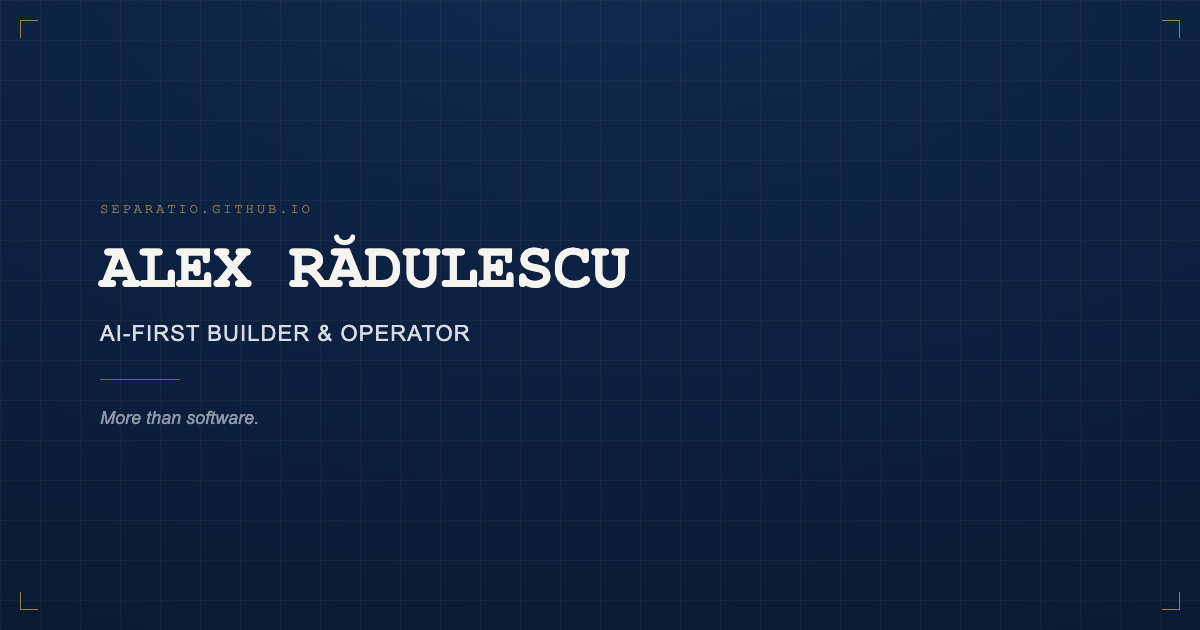
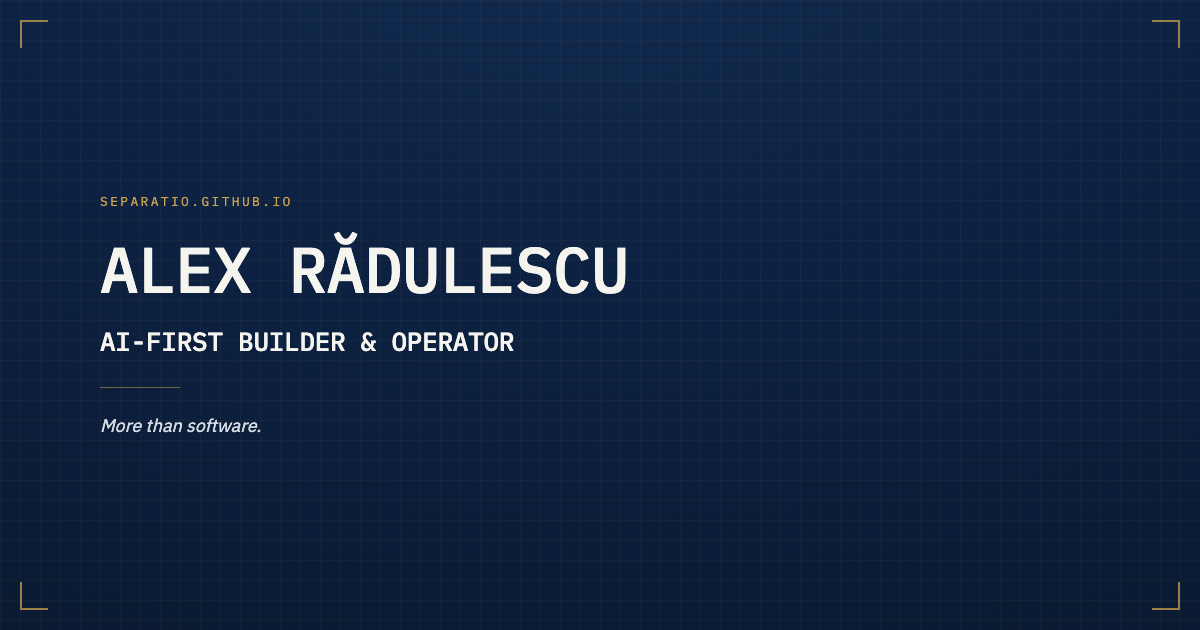
feat: give the Romanian page its own share card
og.png has the English headline and tagline baked into the pixels, and
prerender-locales rewrote og:title/og:description/og:url but not og:image.
Every Romanian share therefore unfurled with English positioning.

Adds public/og-ro.png and the two setAttr calls that point /ro at it. The
English page is untouched — dist/index.html still names og.png.

The image is rewritten in the prerender step and NOT in useDocumentHead,
matching how og:url and canonical are already handled: that hook only syncs
copy, because the tags it would fix are read by scrapers, and scrapers never
run the app.

Both cards are now generated from tools/og/og-card.html rather than being
mystery binaries — the regeneration command is in a comment at the top. The
old og.png had been rendered with fallback fonts (the name was a bold slab
serif, nothing in it was IBM Plex), so it is re-rendered here too; same copy,
correct typography, and a matched pair with the Romanian card.

tools/ is outside the Vite build — only index.html and public/ are bundled,
verified against dist/.

diff --git a/tools/og/og-card.html b/tools/og/og-card.html
@@ -1,0 +1,229 @@
+<!doctype html>
+<html lang="en">
+  <head>
+    <meta charset="UTF-8" />
+    <title>OG card template</title>
+    <!--
+      Source for public/og.png and public/og-ro.png. Not part of the Vite
+      build — nothing outside index.html and public/ is bundled.
+
+      Regenerate (from the repo root):
+
+        python3 -m http.server 8787 &
+        agent-browser set viewport 1200 630
+        agent-browser open 'http://localhost:8787/tools/og/og-card.html?l=en'
+        agent-browser screenshot public/og.png
+        agent-browser open 'http://localhost:8787/tools/og/og-card.html?l=ro'
+        agent-browser screenshot public/og-ro.png
+
+      Served over http rather than opened as file:// because Chrome gives
+      file:// pages an opaque origin and refuses to load the woff2 subsets.
+
+      Copy is duplicated from src/i18n/{en,ro}.ts rather than imported: this is
+      a plain HTML file with no build step. If a headline or tagline changes
+      there, change it here and re-render.
+    -->
+    <style>
+      /* Verbatim from src/styles/fonts.css, minus the unicode-range splits —
+         a 1200x630 canvas has no reason to lazy-load per-subset. */
+      @font-face {
+        font-family: 'IBM Plex Mono';
+        font-weight: 400;
+        src: url('/public/fonts/ibm-plex-mono-400-latin.woff2') format('woff2');
+      }
+      @font-face {
+        font-family: 'IBM Plex Mono';
+        font-weight: 400;
+        src: url('/public/fonts/ibm-plex-mono-400-latin-ext.woff2')
+          format('woff2');
+        unicode-range: U+0100-02BA, U+02BD-02C5, U+02C7-02CC;
+      }
+      @font-face {
+        font-family: 'IBM Plex Mono';
+        font-weight: 500;
+        src: url('/public/fonts/ibm-plex-mono-500-latin.woff2') format('woff2');
+      }
+      @font-face {
+        font-family: 'IBM Plex Mono';
+        font-weight: 500;
+        src: url('/public/fonts/ibm-plex-mono-500-latin-ext.woff2')
+          format('woff2');
+        unicode-range: U+0100-02BA, U+02BD-02C5, U+02C7-02CC;
+      }
+      @font-face {
+        font-family: 'IBM Plex Sans';
+        font-weight: 400;
+        src: url('/public/fonts/ibm-plex-sans-400-latin.woff2') format('woff2');
+      }
+      @font-face {
+        font-family: 'IBM Plex Sans';
+        font-weight: 400;
+        src: url('/public/fonts/ibm-plex-sans-400-latin-ext.woff2')
+          format('woff2');
+        unicode-range: U+0100-02BA, U+02BD-02C5, U+02C7-02CC;
+      }
+
+      /* Token values copied from src/styles/tokens.css. */
+      :root {
+        --gold-rgb: 201, 162, 78;
+        --gold: #c9a24e;
+        --text-primary: #f6f4ef;
+        --text-secondary: #d7dce4;
+        --font-mono: 'IBM Plex Mono', monospace;
+        --font-sans: 'IBM Plex Sans', sans-serif;
+      }
+
+      html,
+      body {
+        margin: 0;
+        padding: 0;
+      }
+
+      .card {
+        position: relative;
+        width: 1200px;
+        height: 630px;
+        overflow: hidden;
+        display: flex;
+        flex-direction: column;
+        justify-content: center;
+        padding: 0 100px;
+        box-sizing: border-box;
+        background:
+          repeating-linear-gradient(
+            to right,
+            rgba(var(--gold-rgb), 0.05) 0 1px,
+            transparent 1px 20px
+          ),
+          repeating-linear-gradient(
+            to bottom,
+            rgba(var(--gold-rgb), 0.05) 0 1px,
+            transparent 1px 20px
+          ),
+          radial-gradient(
+            125% 120% at 50% -10%,
+            #102a4e 0%,
+            #0c2040 55%,
+            #0a1a32 100%
+          );
+      }
+
+      /* Registration marks — the same L-brackets the live page draws. */
+      .corner {
+        position: absolute;
+        width: 26px;
+        height: 26px;
+        border: 0 solid rgba(var(--gold-rgb), 0.75);
+      }
+      .tl {
+        top: 20px;
+        left: 20px;
+        border-top-width: 2px;
+        border-left-width: 2px;
+      }
+      .tr {
+        top: 20px;
+        right: 20px;
+        border-top-width: 2px;
+        border-right-width: 2px;
+      }
+      .bl {
+        bottom: 20px;
+        left: 20px;
+        border-bottom-width: 2px;
+        border-left-width: 2px;
+      }
+      .br {
+        bottom: 20px;
+        right: 20px;
+        border-bottom-width: 2px;
+        border-right-width: 2px;
+      }
+
+      .eyebrow {
+        font-family: var(--font-mono);
+        font-weight: 400;
+        font-size: 13px;
+        letter-spacing: 0.18em;
+        text-transform: uppercase;
+        color: var(--gold);
+      }
+
+      .name {
+        margin-top: 26px;
+        font-family: var(--font-mono);
+        font-weight: 500;
+        font-size: 64px;
+        line-height: 1.05;
+        letter-spacing: -0.01em;
+        text-transform: uppercase;
+        color: var(--text-primary);
+      }
+
+      .role {
+        margin-top: 22px;
+        font-family: var(--font-mono);
+        font-weight: 500;
+        font-size: 26px;
+        line-height: 1.25;
+        letter-spacing: -0.01em;
+        color: var(--text-primary);
+      }
+
+      .rule {
+        margin-top: 30px;
+        width: 80px;
+        height: 1px;
+        background: var(--gold);
+        opacity: 0.55;
+      }
+
+      .tagline {
+        margin-top: 26px;
+        font-family: var(--font-sans);
+        font-size: 18px;
+        font-style: italic;
+        color: var(--text-secondary);
+      }
+    </style>
+  </head>
+  <body>
+    <div class="card">
+      <span class="corner tl"></span>
+      <span class="corner tr"></span>
+      <span class="corner bl"></span>
+      <span class="corner br"></span>
+
+      <div class="eyebrow" id="eyebrow"></div>
+      <div class="name">Alex Rădulescu</div>
+      <div class="role" id="role"></div>
+      <div class="rule"></div>
+      <div class="tagline" id="tagline"></div>
+    </div>
+
+    <script>
+      // ?l=ro renders the Romanian card; anything else renders English.
+      const COPY = {
+        en: {
+          eyebrow: 'separatio.github.io',
+          role: 'AI-FIRST BUILDER & OPERATOR',
+          tagline: 'More than software.',
+        },
+        ro: {
+          eyebrow: 'separatio.github.io/ro',
+          role: 'INGINER DE AUTOMATIZĂRI',
+          tagline: 'Mai mult decât software.',
+        },
+      }
+
+      const lang =
+        new URLSearchParams(location.search).get('l') === 'ro' ? 'ro' : 'en'
+      const copy = COPY[lang]
+
+      document.documentElement.lang = lang
+      document.getElementById('eyebrow').textContent = copy.eyebrow
+      document.getElementById('role').textContent = copy.role
+      document.getElementById('tagline').textContent = copy.tagline
+    </script>
+  </body>
+</html>

diff --git a/vite/prerender-locales.ts b/vite/prerender-locales.ts
@@ -11,6 +11,14 @@ const SITE = 'https://separatio.github.io'
  */
 const RO_URL = `${SITE}/ro/`
 
+/**
+ * The share card has the headline and tagline baked into the pixels, so /ro
+ * needs its own or every Romanian unfurl shows English positioning. Absolute,
+ * like the English one — scrapers do not resolve relative image URLs.
+ * Rendered from tools/og/og-card.html; see the regeneration note there.
+ */
+const RO_IMAGE = `${SITE}/og-ro.png`
+
 const META_TAG = /<meta\b[^>]*>/g
 const LINK_TAG = /<link\b[^>]*>/g
 
@@ -63,9 +71,14 @@ function setAttr(
 }
 
 /**
- * Head-only transform: language, title, description/OG/Twitter copy, og:url and
- * canonical. Asset tags, font preloads, hreflang alternates and the
- * spa-github-pages shim are absolute or locale-agnostic and stay byte-identical.
+ * Head-only transform: language, title, description/OG/Twitter copy, the share
+ * image, og:url and canonical. Asset tags, font preloads, hreflang alternates
+ * and the spa-github-pages shim are absolute or locale-agnostic and stay
+ * byte-identical.
+ *
+ * The image is rewritten here and NOT in useDocumentHead: that hook only syncs
+ * copy, because the tags it would fix are read by scrapers, and scrapers never
+ * run the app. og:url and canonical are locale-specific for the same reason.
  */
 function toRomanian(html: string): string {
   const { title, description } = ro.head
@@ -93,6 +106,7 @@ function toRomanian(html: string): string {
     description
   )
   out = setAttr(out, META_TAG, /property="og:url"/, 'content', RO_URL)
+  out = setAttr(out, META_TAG, /property="og:image"/, 'content', RO_IMAGE)
   out = setAttr(out, META_TAG, /name="twitter:title"/, 'content', title)
   out = setAttr(
     out,
@@ -101,6 +115,7 @@ function toRomanian(html: string): string {
     'content',
     description
   )
+  out = setAttr(out, META_TAG, /name="twitter:image"/, 'content', RO_IMAGE)
   out = setAttr(out, LINK_TAG, /rel="canonical"/, 'href', RO_URL)
 
   return out
